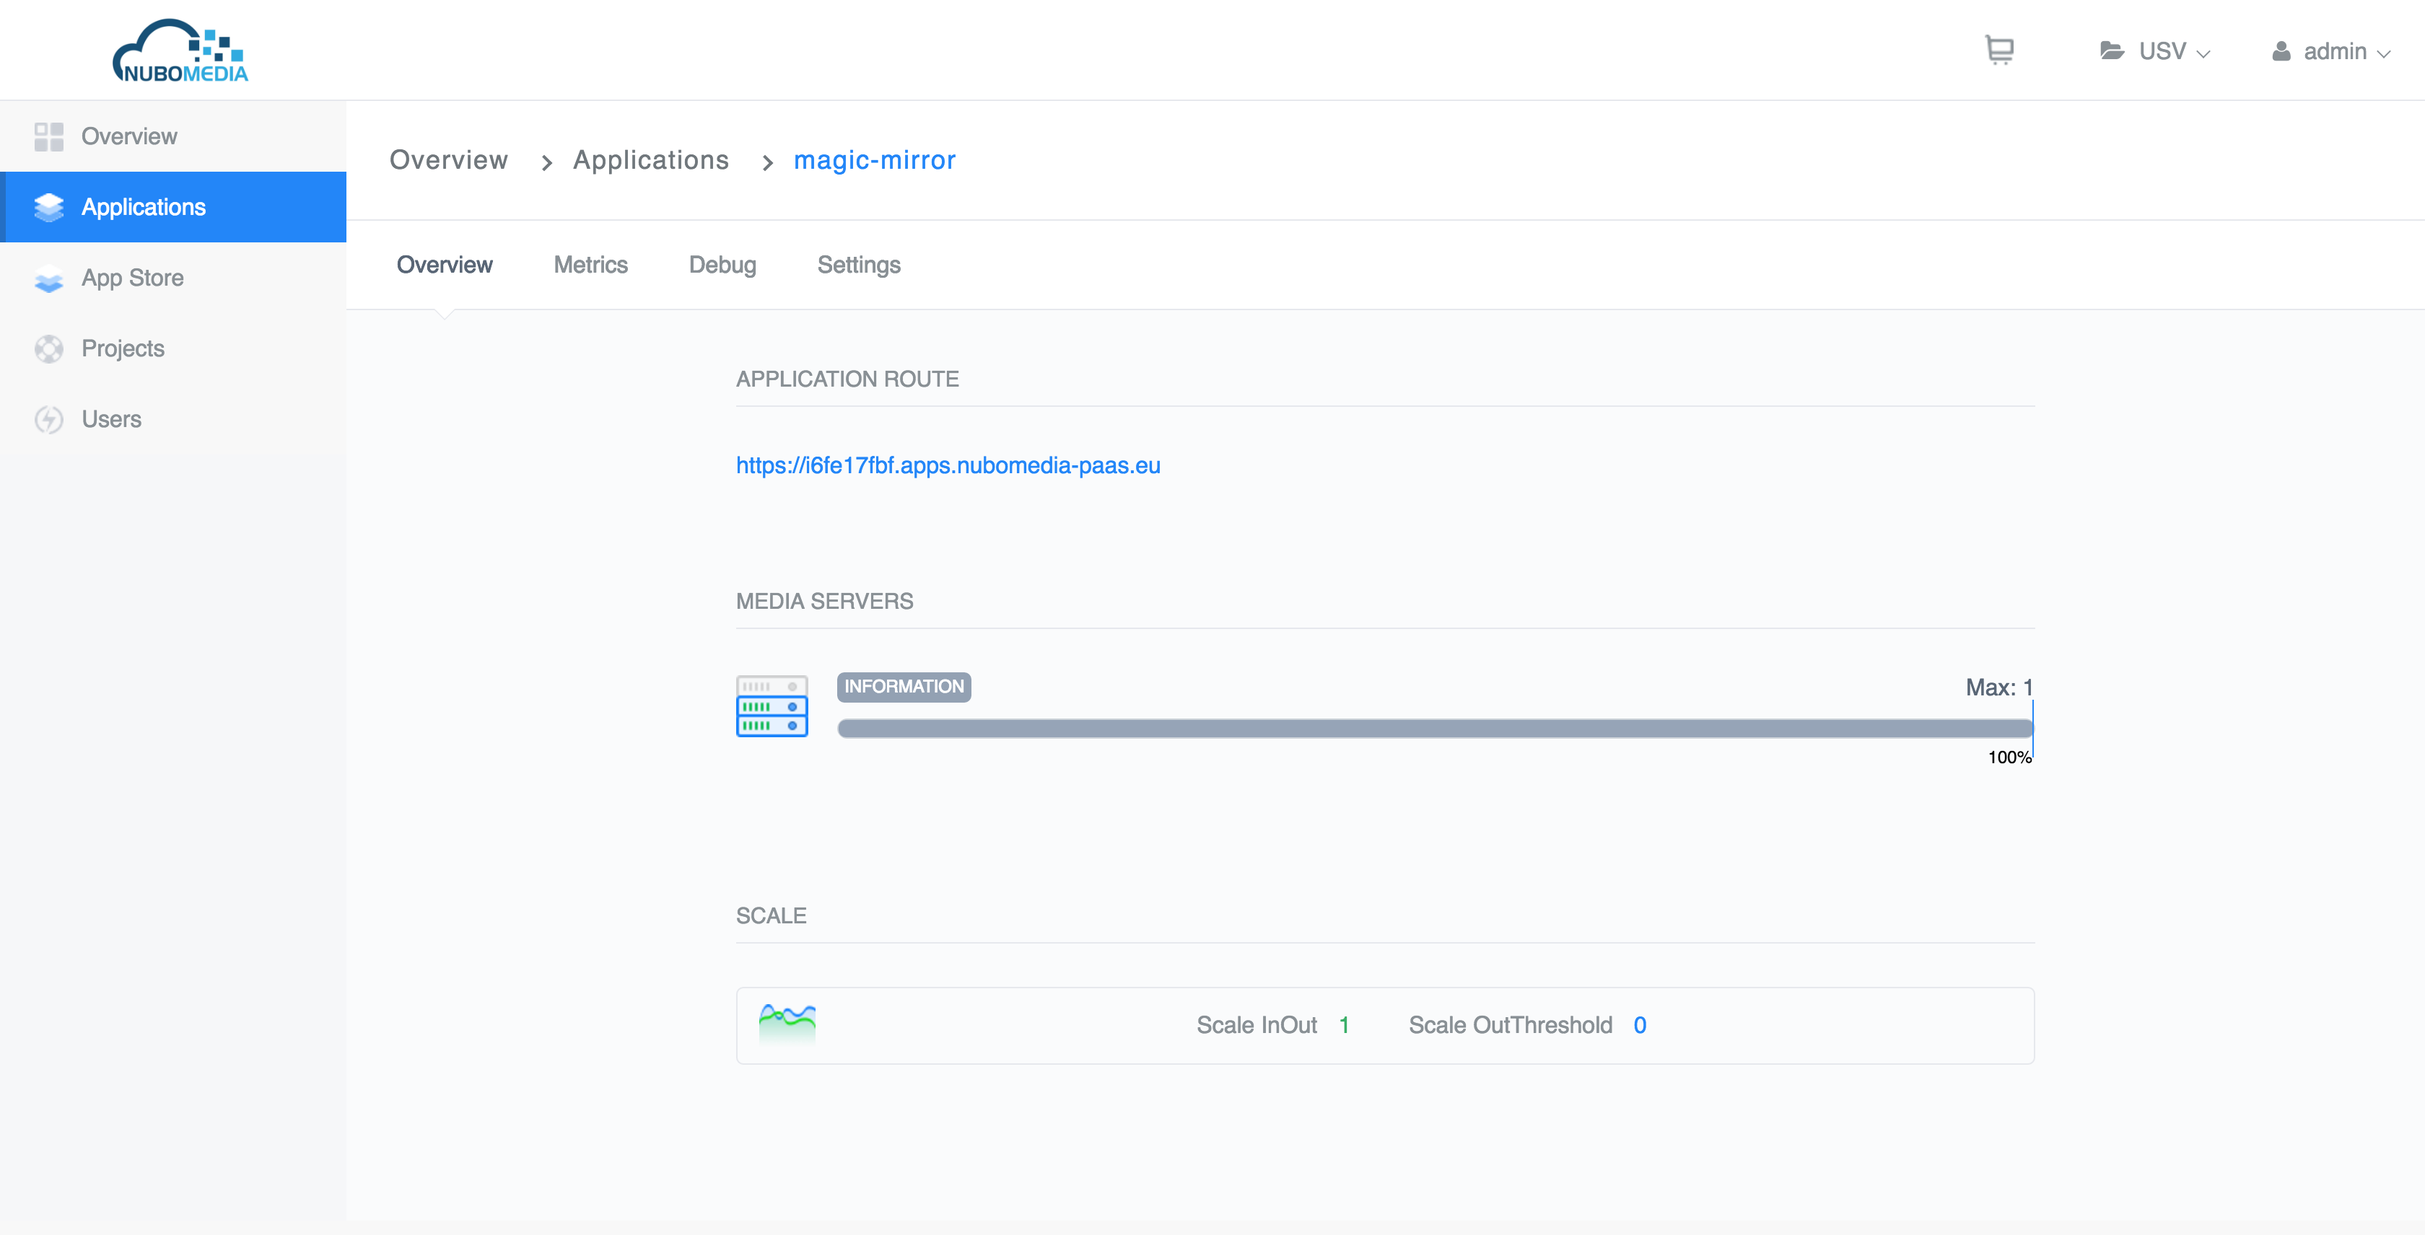
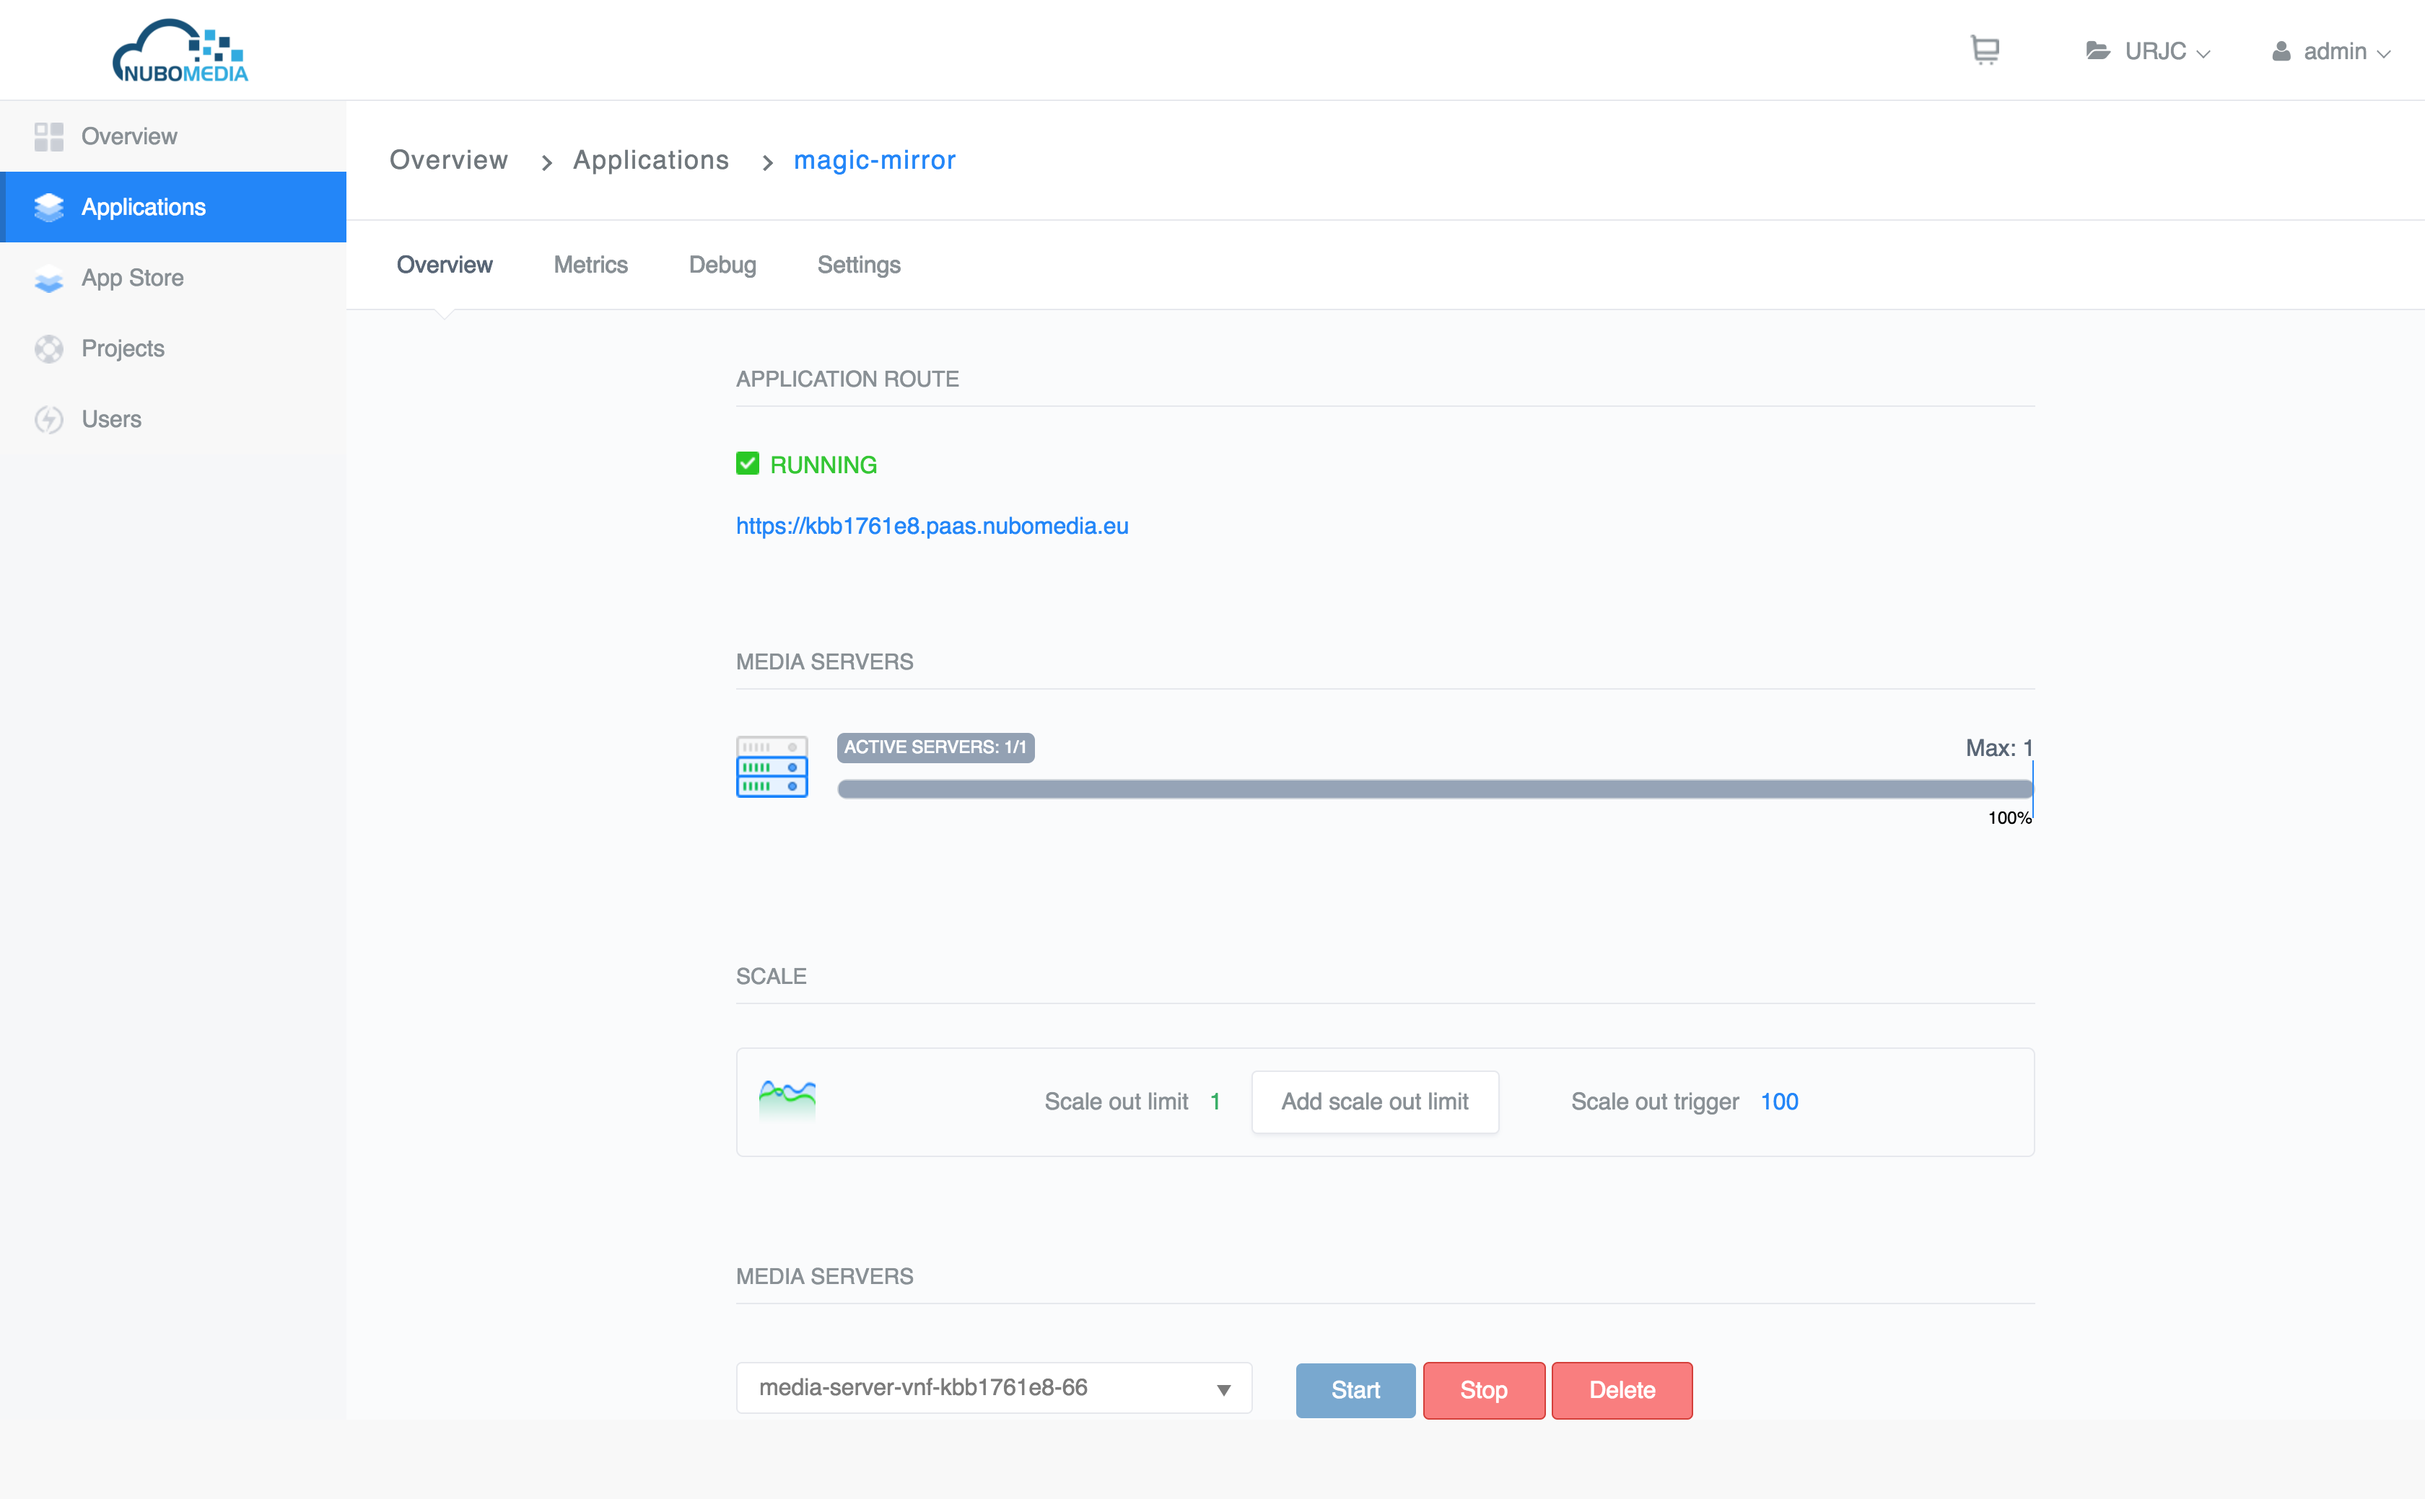
Update to PaaS GUI - Included Stop/Start/Delete Media Server, Increase the number of media-servers functionalities, and also Add-on services functionality.

diff --git a/docs/paas/paas-gui.md b/docs/paas/paas-gui.md
@@ -33,21 +33,33 @@ For the *Form* view, you should see a mask similar to the image below.
 
 where:
 
-- ```GitURL```: the Git repository URL that contains your project (source or jar), Dockerfile and other files that are necessary to run your application. If the repository is public the link has to be the HTTP version, if is private has to be the SSH version.
+-  ```Application name```: is the name of your application as you would want it to appear on the PaaS. This name is used for creating the DNS entry for your application;
 
--  ```Application name```: is the name of your application as you would want it to appear on the PaaS. This name is used for creating the DNS entry for your application.
+-  ```Number of KMS instances```: Indicates the minimum number of media servers that will be available, even if auto-scaling mechanism is used;
 
-- ```replicasNumber```: is a numeric value indicating the number of containers to be created for your application by the PaaS. This value is used for load balancing.
+- ```GitURL```: the Git repository URL that contains your project (source or jar), Dockerfile and other files that are necessary to run your application. If the repository is public the link has to be the HTTP version, if is private has to be the SSH version;
 
--  ```flavor```:  This defines the size of the KMS instances. With ```MEDIUM``` flavor, you get 2 VCPU and with ```LARGE``` flavor you have 4VCPU. The capacity is defined as 100 points for VCPU.
+-  ```flavor```:  This defines the size of the KMS instances. With ```MEDIUM``` flavor, you get 2 VCPU and with ```LARGE``` flavor you have 4VCPU. The capacity is defined as 100 points for VCPU;
 
--  ```secretName``` (optional): Indicates the name of the secret that has to be used only if your application is on a private Git repository
+-  ```secretName``` (optional): Indicates the name of the secret that has to be used only if your application is on a private Git repository;
+
+-  ```Services``` (optional): Allows you to define add-on services like mysql, rabbitmq, etc;
+
+    -  ```DockerURL```: Represents the link for the Docker file that defines the add-on service;
+    
+    -  ```Name```: Represents the name of the add-on service;
+    
+    -  ```Replicas Number```: Represents the number of containers that will run that particular service;
+    
+    -  ```Ports```: The add-on service might need to expose multiple ports;
+    
+    -  ```ENV vars```: Are environment variables that should configure the add-on service at start-up;
 
 -  ```Do you want to set the scale IN/OUT threshold?``` if checked then you are given the options to set. Please follow the [autoscaling](autoscaling.md) documentation for more details on how autoscaling works.
 
-    - ```scaleInOut```: Scale in or out indicates the MAX number of media servers (KMS) instances that will be instantiates at runtime, by the auto scaling system.
+    - ```Scale Out Limit```: Scale in or out indicates the MAX number of media servers (KMS) instances that will be instantiates at runtime, by the auto scaling system.
 
-    - ```scale_out_threshold```: This is the threshold (in terms of averaged number of points) which will be used for the policy of the autoscaling system. CHECK which flavor you are going to use before defining this threshold. 
+    - ```Scale Out Trigger```: This is the threshold (in terms of averaged number of points) which will be used for the policy of the autoscaling system. CHECK which flavor you are going to use before defining this threshold. 
 
 >>!!! info
     Do not put a value lower than the total capacity of your flavor!
@@ -82,6 +94,8 @@ When all values have been entered, click on the *Create App* button below. Your 
 
 ![PaaS Manager Gui - Application Overview](../img/paas_app_overview.png)
 *PaaS Manager - Create App - Application status View*
+
+On the Application Overview page you can see the status of your application (CREATING, BUILDING, DEPLOYING, RUNNING). Here you can also adjust the number of Media Server instances supporting your application by clicking on "Add scale out limit", or you can stop, start or remove one running Media Server from your application.
 
 Here you can check the number of media servers running, the autoscaling configurations and also the addons, if you have added a CDN Connector or a Cloud Repository.
 
